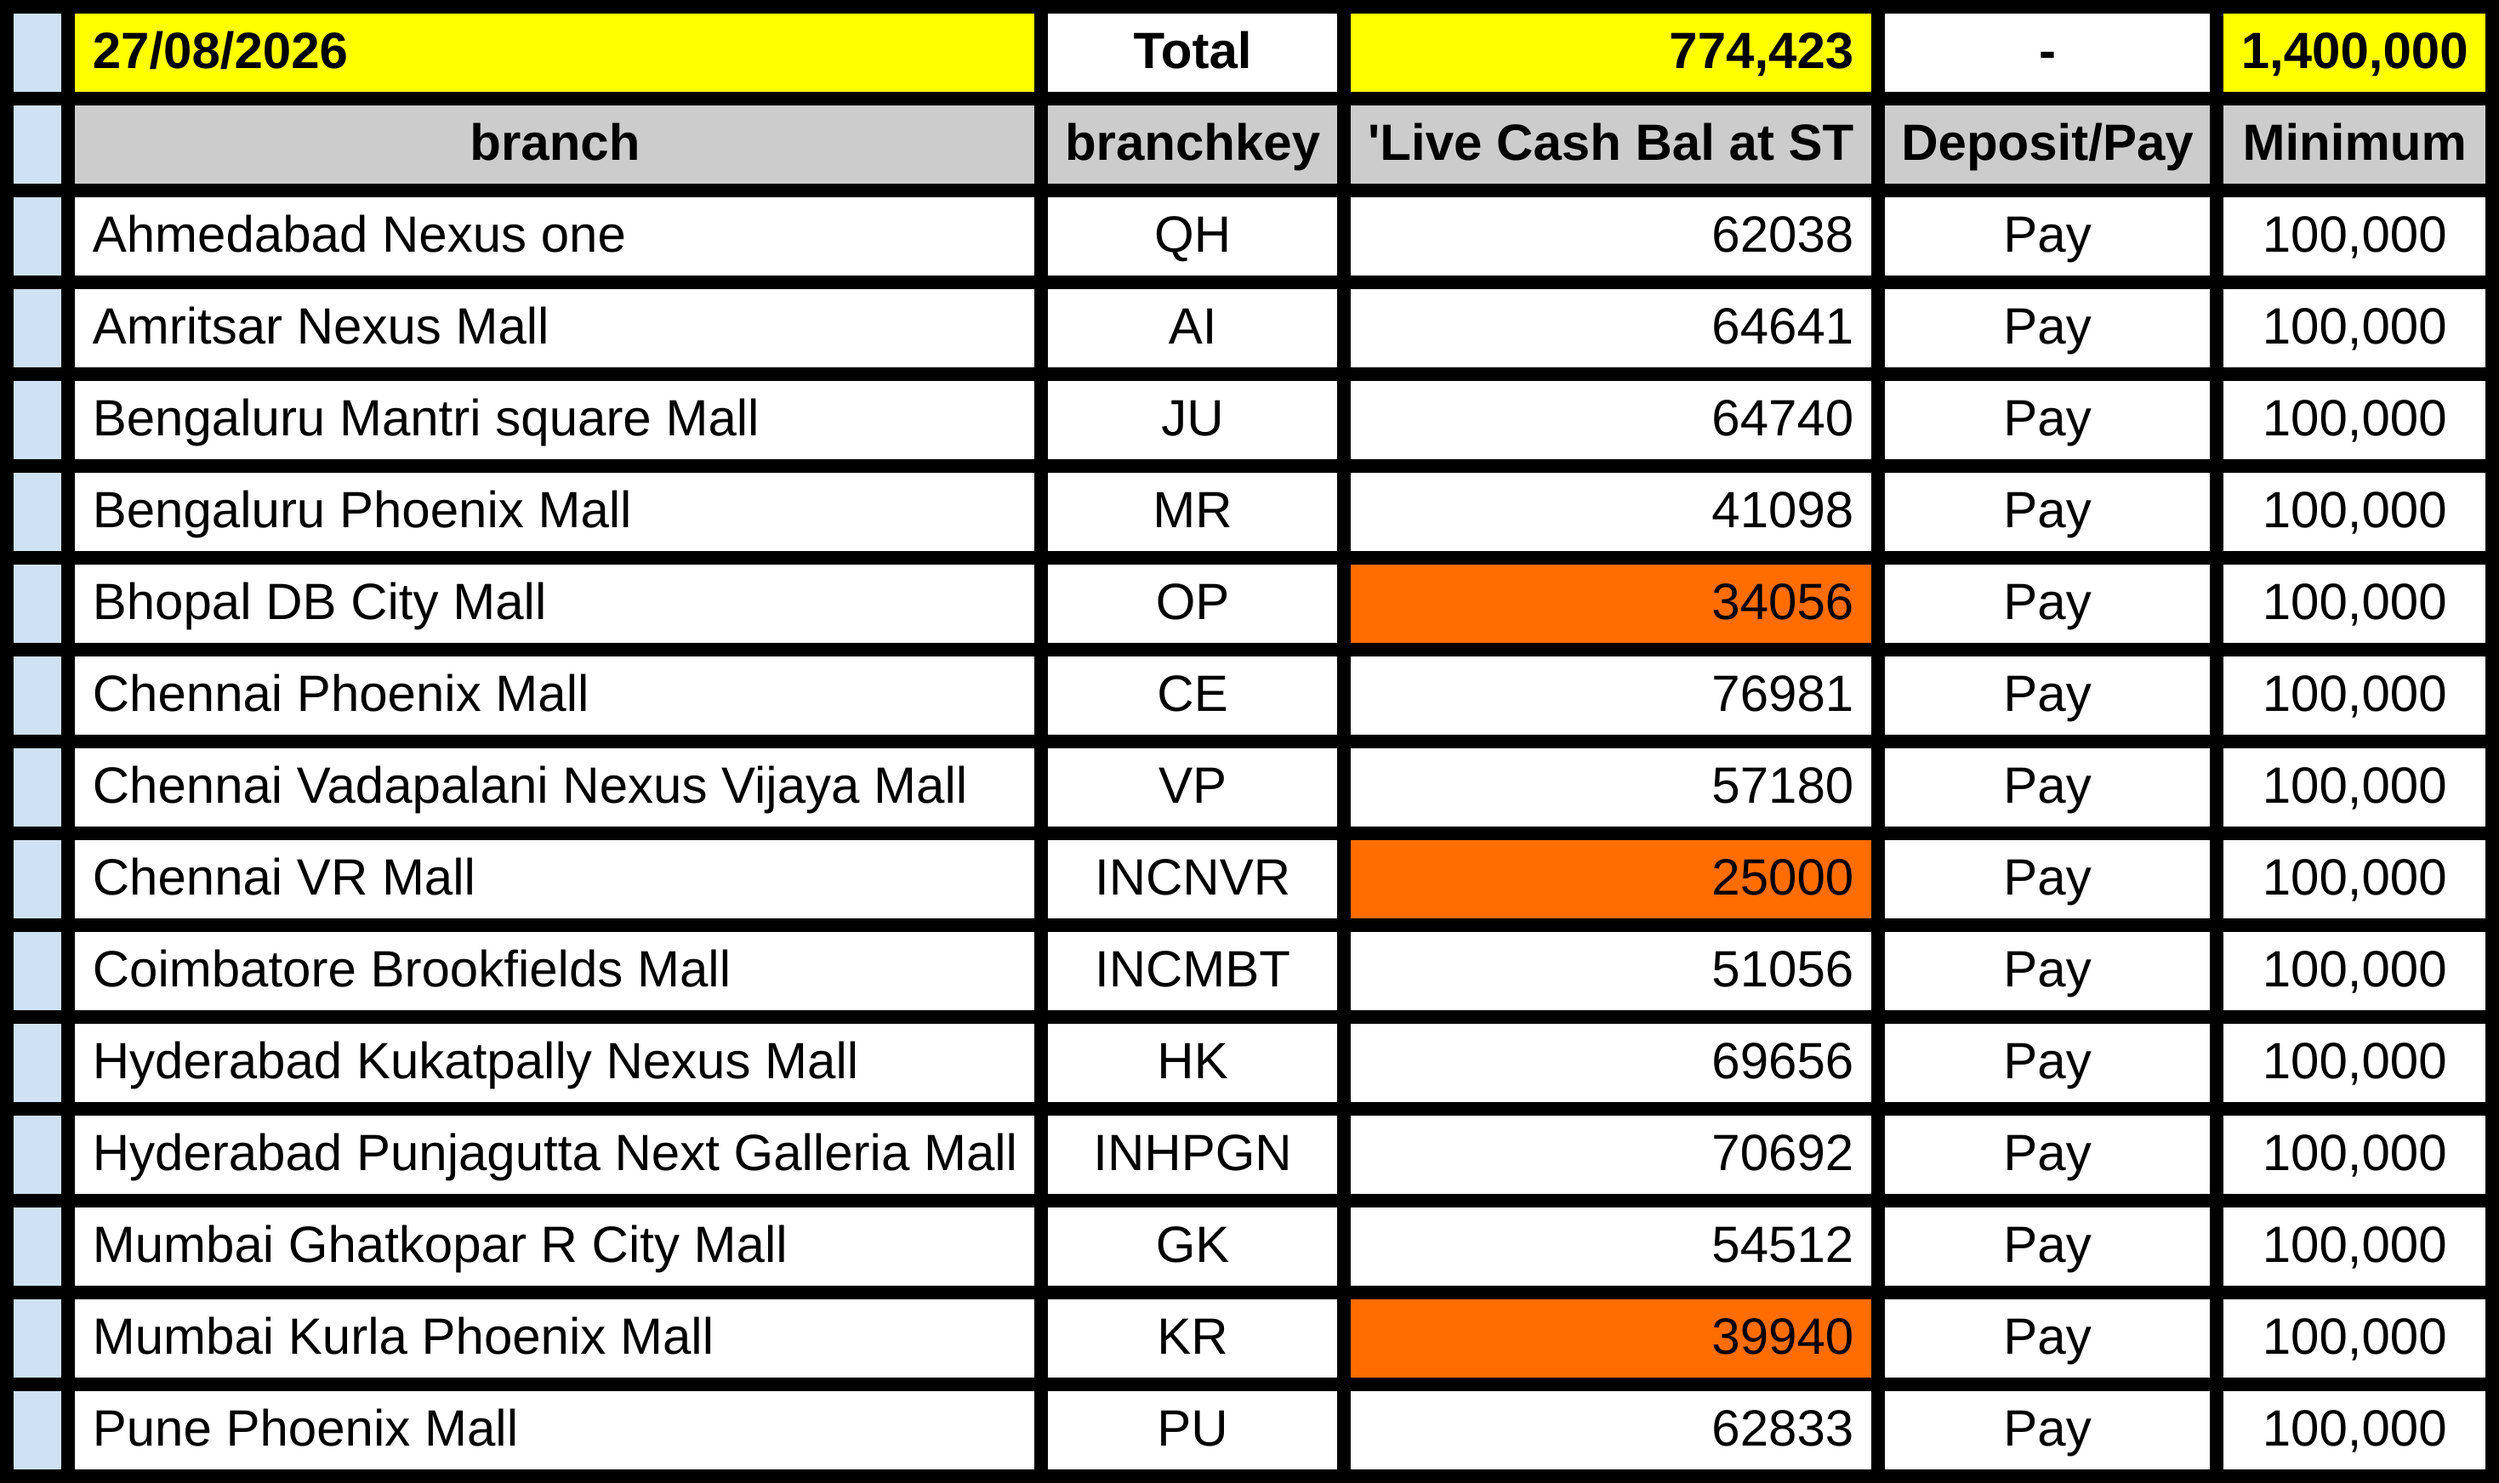
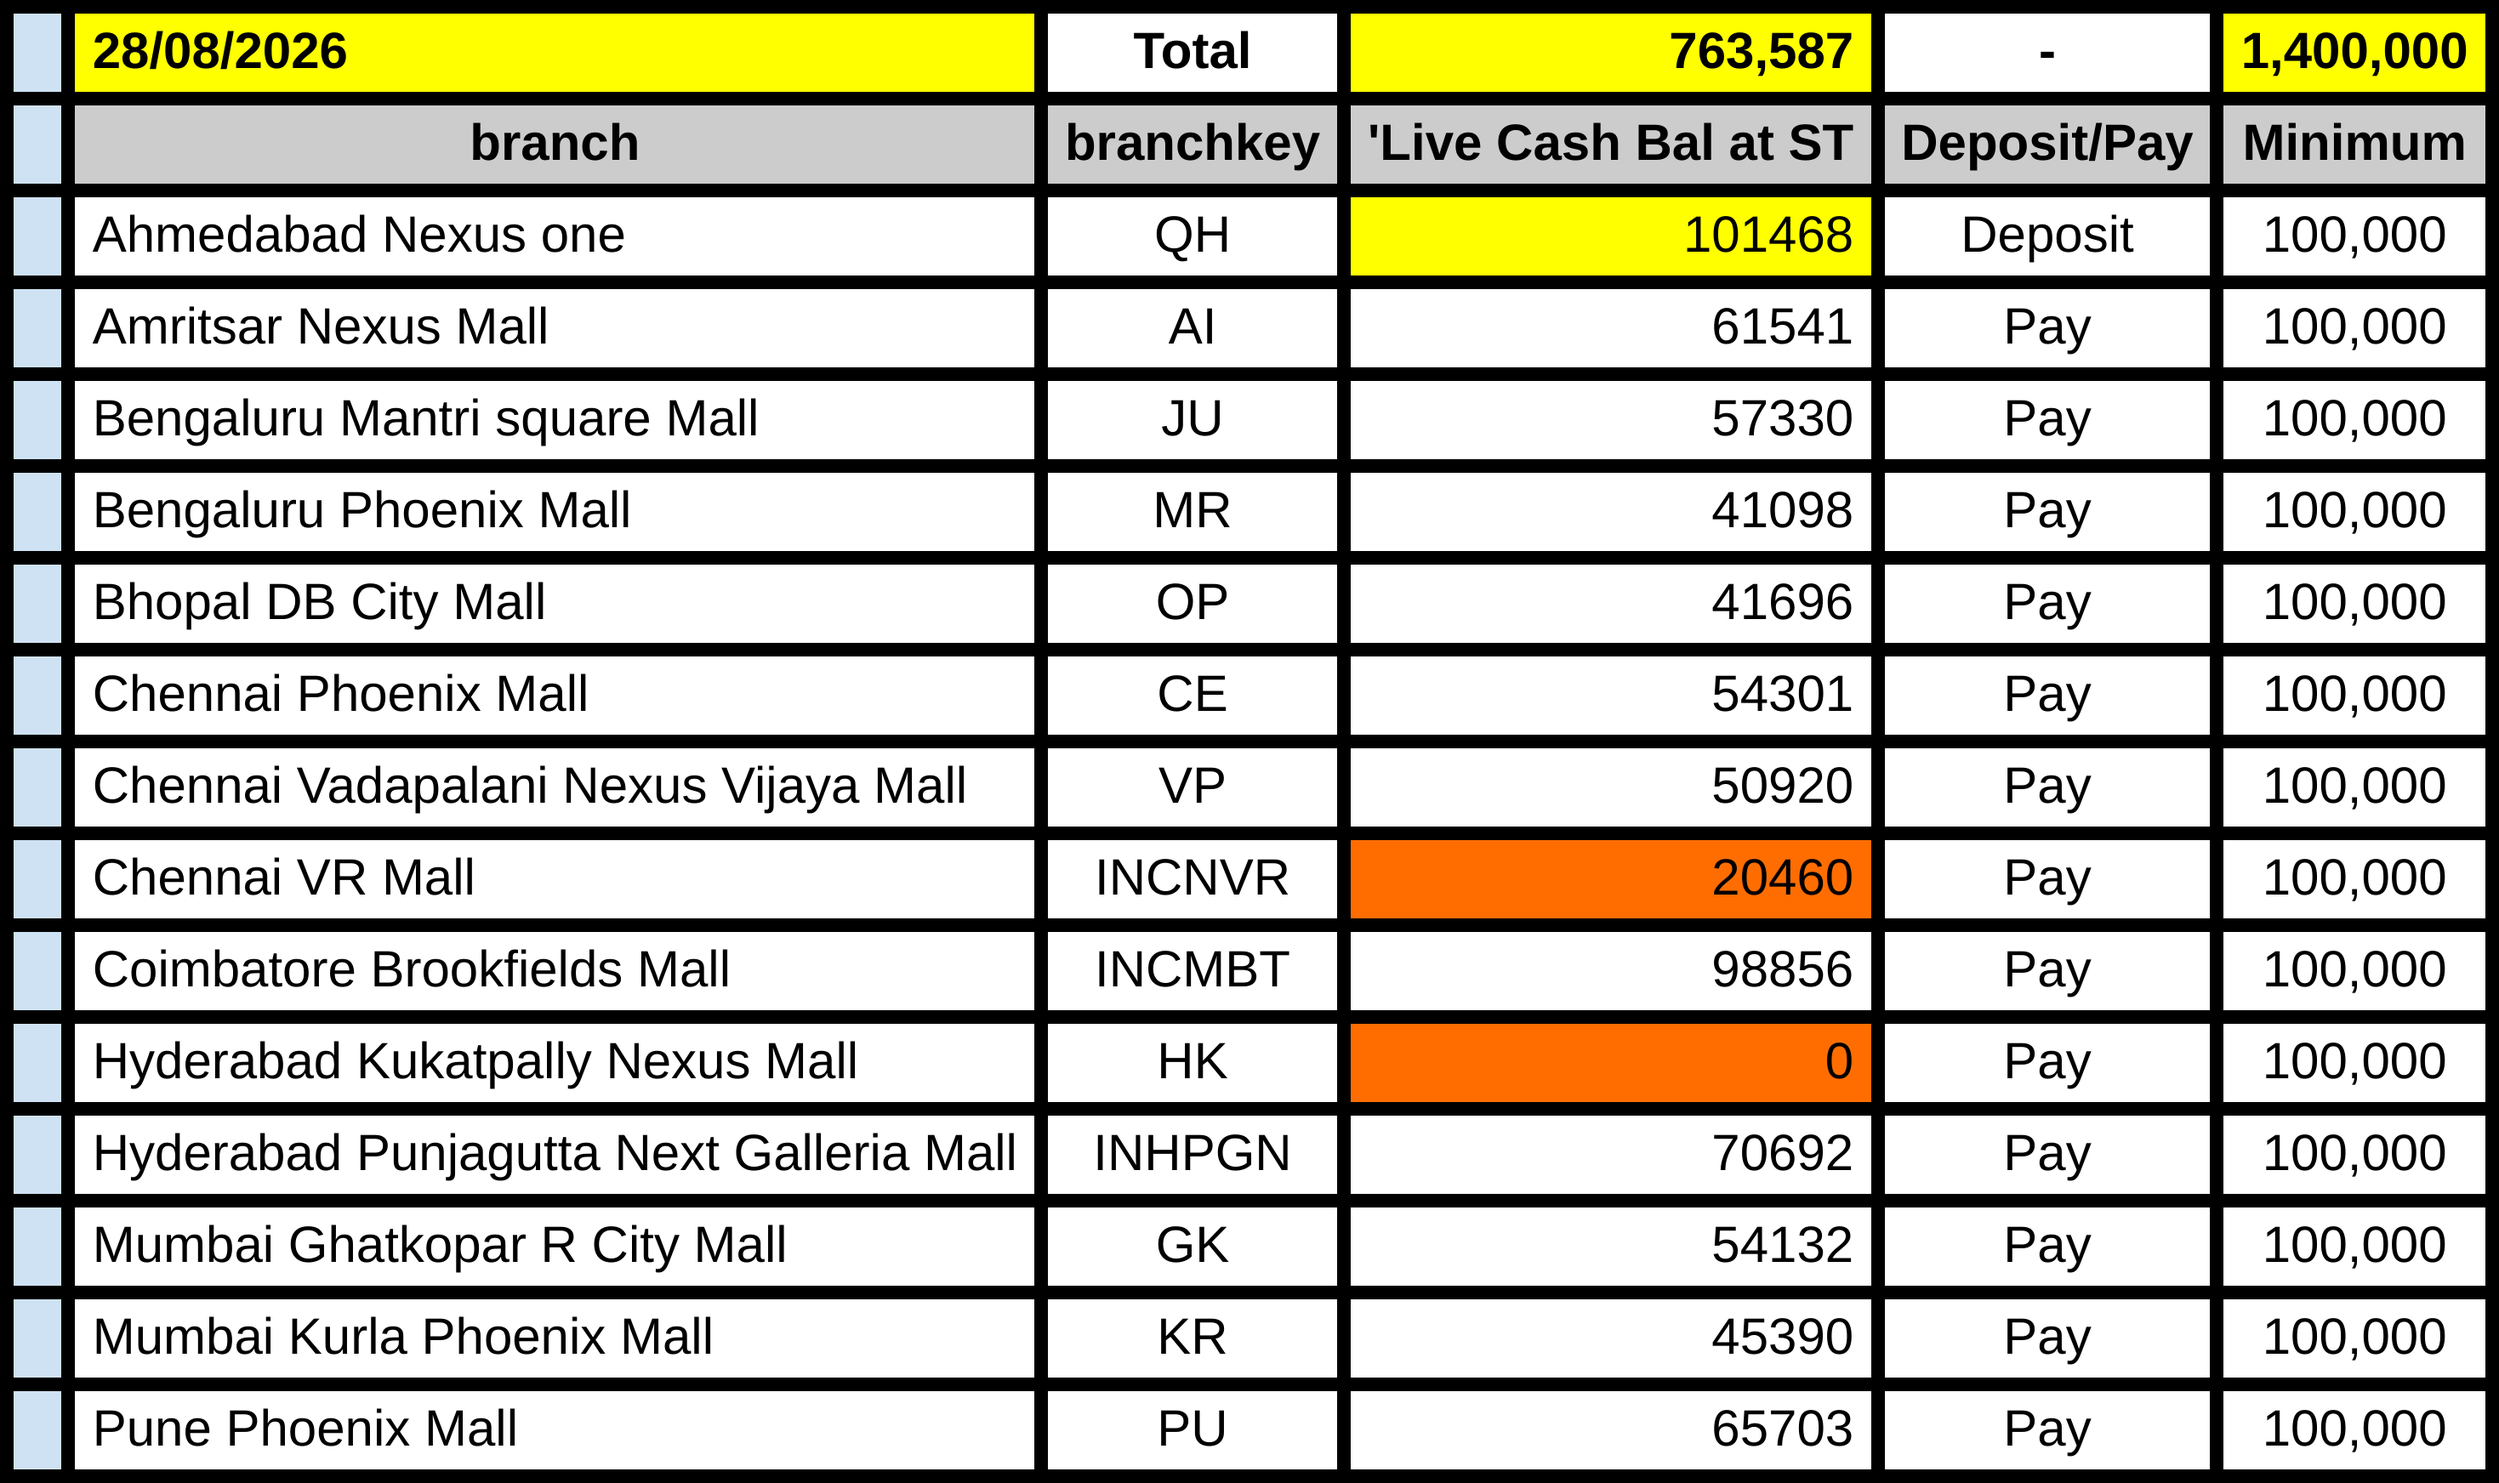
deploy: 1eb6ce62876c9d41067b4594acfaffc291ee4c8b

diff --git a/table.html b/table.html
@@ -35,7 +35,7 @@
           font-family: Arial, sans-serif;
           font-size: 30px;
           white-space: nowrap;
-        ">27/08/2026</td>
+        ">28/08/2026</td>
       
         <td style="
           background-color: #ffffff;
@@ -63,7 +63,7 @@
           font-family: Arial, sans-serif;
           font-size: 30px;
           white-space: nowrap;
-        ">774,423</td>
+        ">763,587</td>
       
         <td style="
           background-color: #ffffff;
@@ -220,7 +220,7 @@
         ">QH</td>
       
         <td style="
-          background-color: #ffffff;
+          background-color: #ffff00;
           color: #000000;
           font-weight: normal;
           font-style: normal;
@@ -231,7 +231,7 @@
           font-family: Arial, sans-serif;
           font-size: 30px;
           white-space: nowrap;
-        ">62038</td>
+        ">101468</td>
       
         <td style="
           background-color: #ffffff;
@@ -245,7 +245,7 @@
           font-family: Arial, sans-serif;
           font-size: 30px;
           white-space: nowrap;
-        ">Pay</td>
+        ">Deposit</td>
       
         <td style="
           background-color: #ffffff;
@@ -315,7 +315,7 @@
           font-family: Arial, sans-serif;
           font-size: 30px;
           white-space: nowrap;
-        ">64641</td>
+        ">61541</td>
       
         <td style="
           background-color: #ffffff;
@@ -399,7 +399,7 @@
           font-family: Arial, sans-serif;
           font-size: 30px;
           white-space: nowrap;
-        ">64740</td>
+        ">57330</td>
       
         <td style="
           background-color: #ffffff;
@@ -556,7 +556,7 @@
         ">OP</td>
       
         <td style="
-          background-color: #ff6d01;
+          background-color: #ffffff;
           color: #000000;
           font-weight: normal;
           font-style: normal;
@@ -567,7 +567,7 @@
           font-family: Arial, sans-serif;
           font-size: 30px;
           white-space: nowrap;
-        ">34056</td>
+        ">41696</td>
       
         <td style="
           background-color: #ffffff;
@@ -651,7 +651,7 @@
           font-family: Arial, sans-serif;
           font-size: 30px;
           white-space: nowrap;
-        ">76981</td>
+        ">54301</td>
       
         <td style="
           background-color: #ffffff;
@@ -735,7 +735,7 @@
           font-family: Arial, sans-serif;
           font-size: 30px;
           white-space: nowrap;
-        ">57180</td>
+        ">50920</td>
       
         <td style="
           background-color: #ffffff;
@@ -819,7 +819,7 @@
           font-family: Arial, sans-serif;
           font-size: 30px;
           white-space: nowrap;
-        ">25000</td>
+        ">20460</td>
       
         <td style="
           background-color: #ffffff;
@@ -903,7 +903,7 @@
           font-family: Arial, sans-serif;
           font-size: 30px;
           white-space: nowrap;
-        ">51056</td>
+        ">98856</td>
       
         <td style="
           background-color: #ffffff;
@@ -976,7 +976,7 @@
         ">HK</td>
       
         <td style="
-          background-color: #ffffff;
+          background-color: #ff6d01;
           color: #000000;
           font-weight: normal;
           font-style: normal;
@@ -987,7 +987,7 @@
           font-family: Arial, sans-serif;
           font-size: 30px;
           white-space: nowrap;
-        ">69656</td>
+        ">0</td>
       
         <td style="
           background-color: #ffffff;
@@ -1155,7 +1155,7 @@
           font-family: Arial, sans-serif;
           font-size: 30px;
           white-space: nowrap;
-        ">54512</td>
+        ">54132</td>
       
         <td style="
           background-color: #ffffff;
@@ -1228,7 +1228,7 @@
         ">KR</td>
       
         <td style="
-          background-color: #ff6d01;
+          background-color: #ffffff;
           color: #000000;
           font-weight: normal;
           font-style: normal;
@@ -1239,7 +1239,7 @@
           font-family: Arial, sans-serif;
           font-size: 30px;
           white-space: nowrap;
-        ">39940</td>
+        ">45390</td>
       
         <td style="
           background-color: #ffffff;
@@ -1323,7 +1323,7 @@
           font-family: Arial, sans-serif;
           font-size: 30px;
           white-space: nowrap;
-        ">62833</td>
+        ">65703</td>
       
         <td style="
           background-color: #ffffff;
